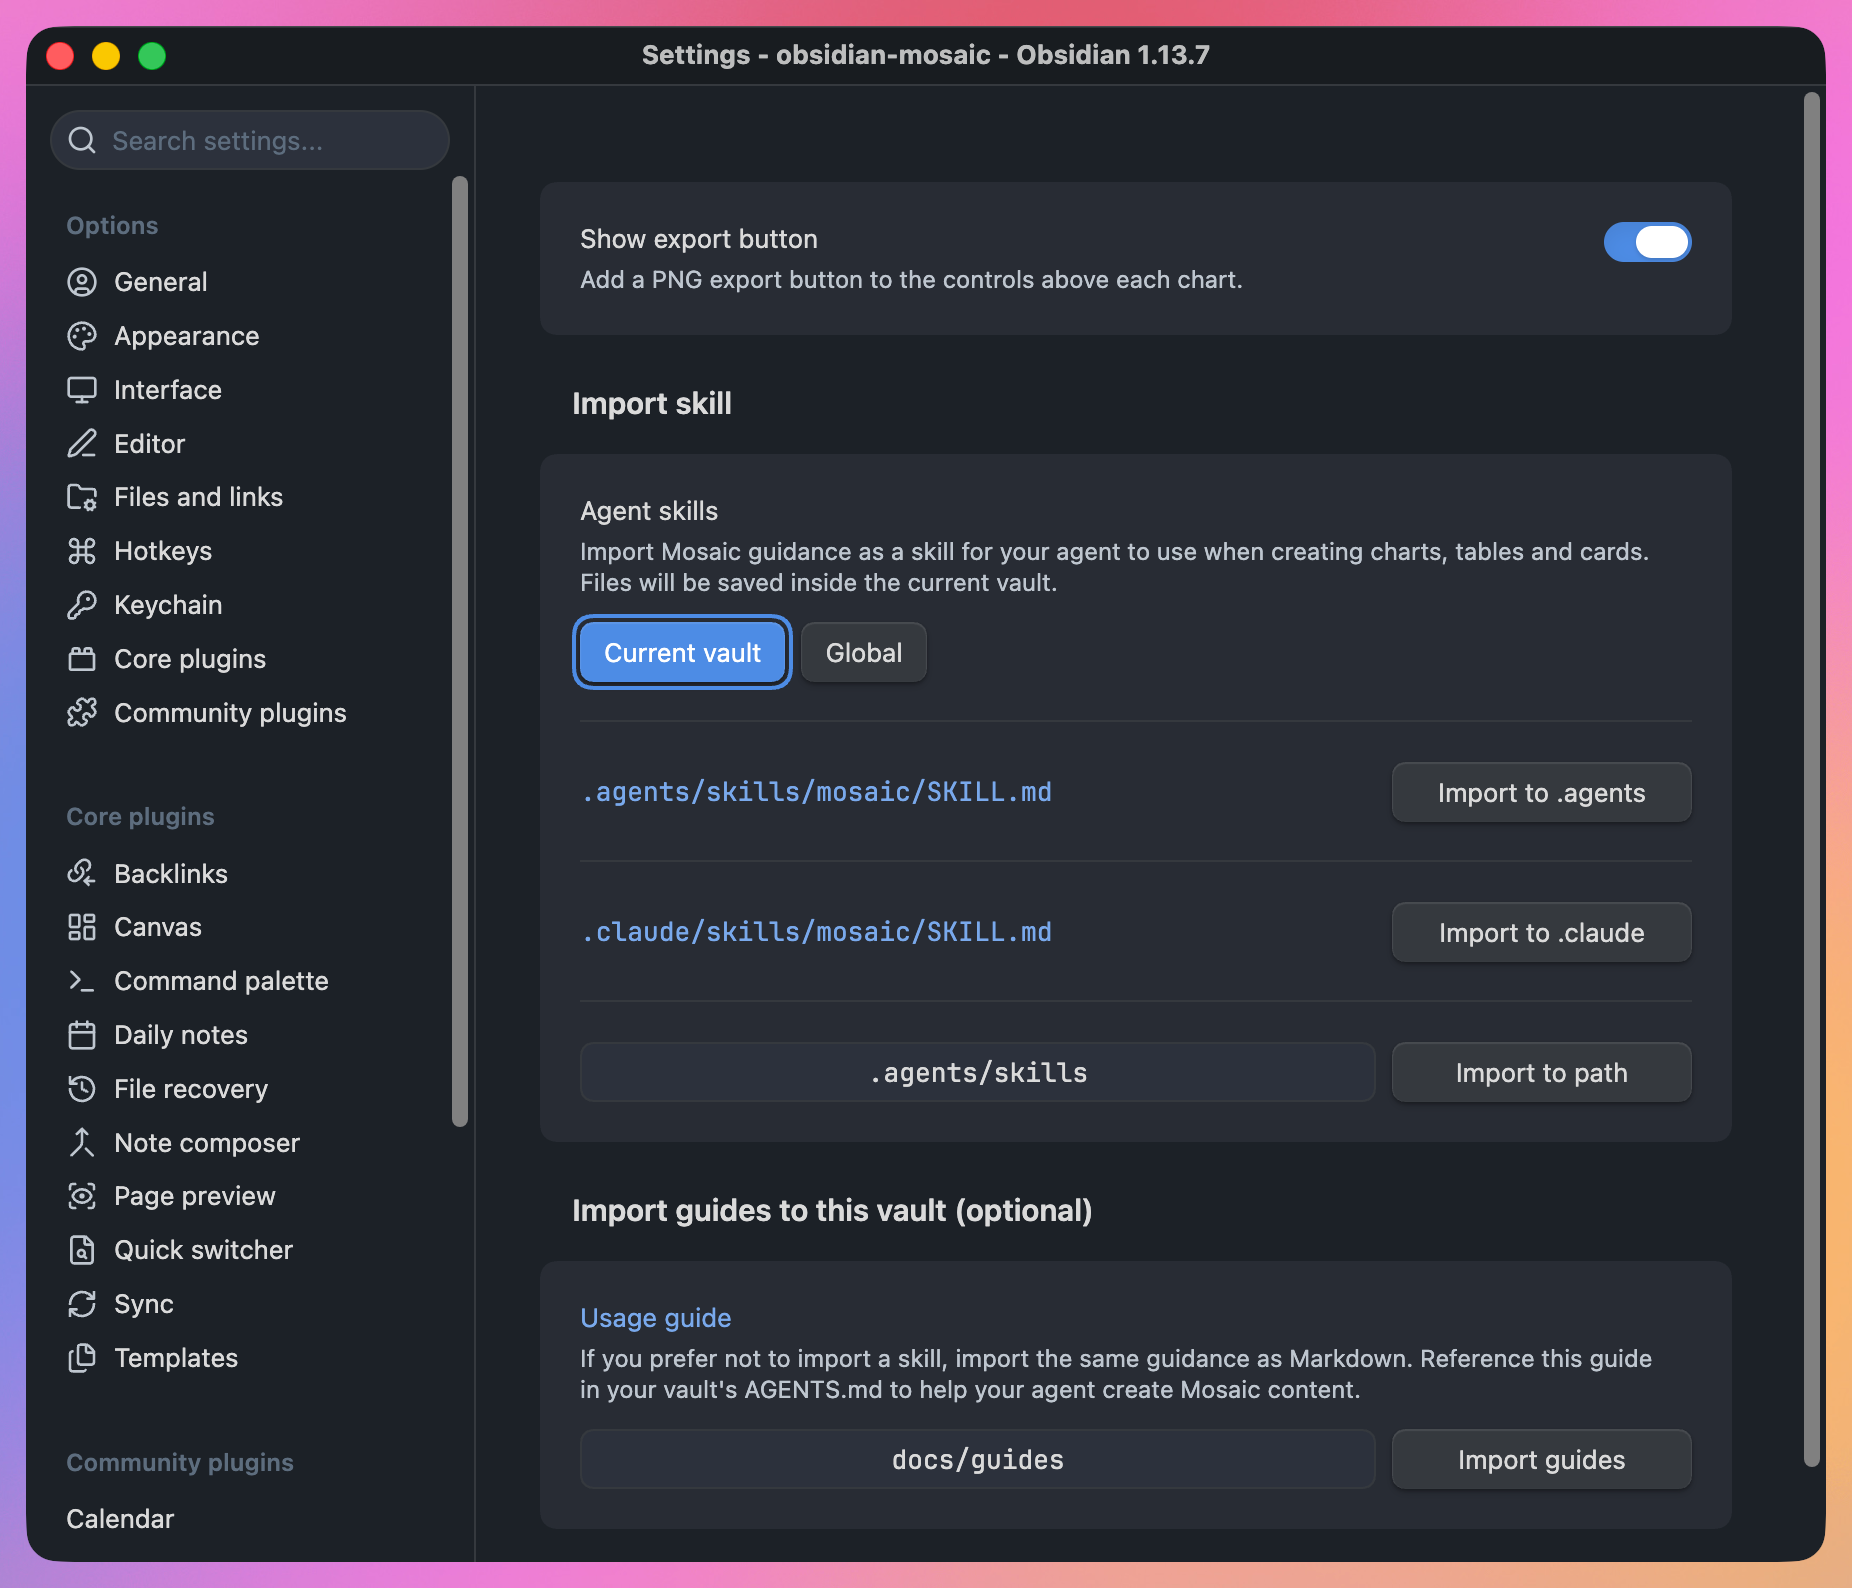
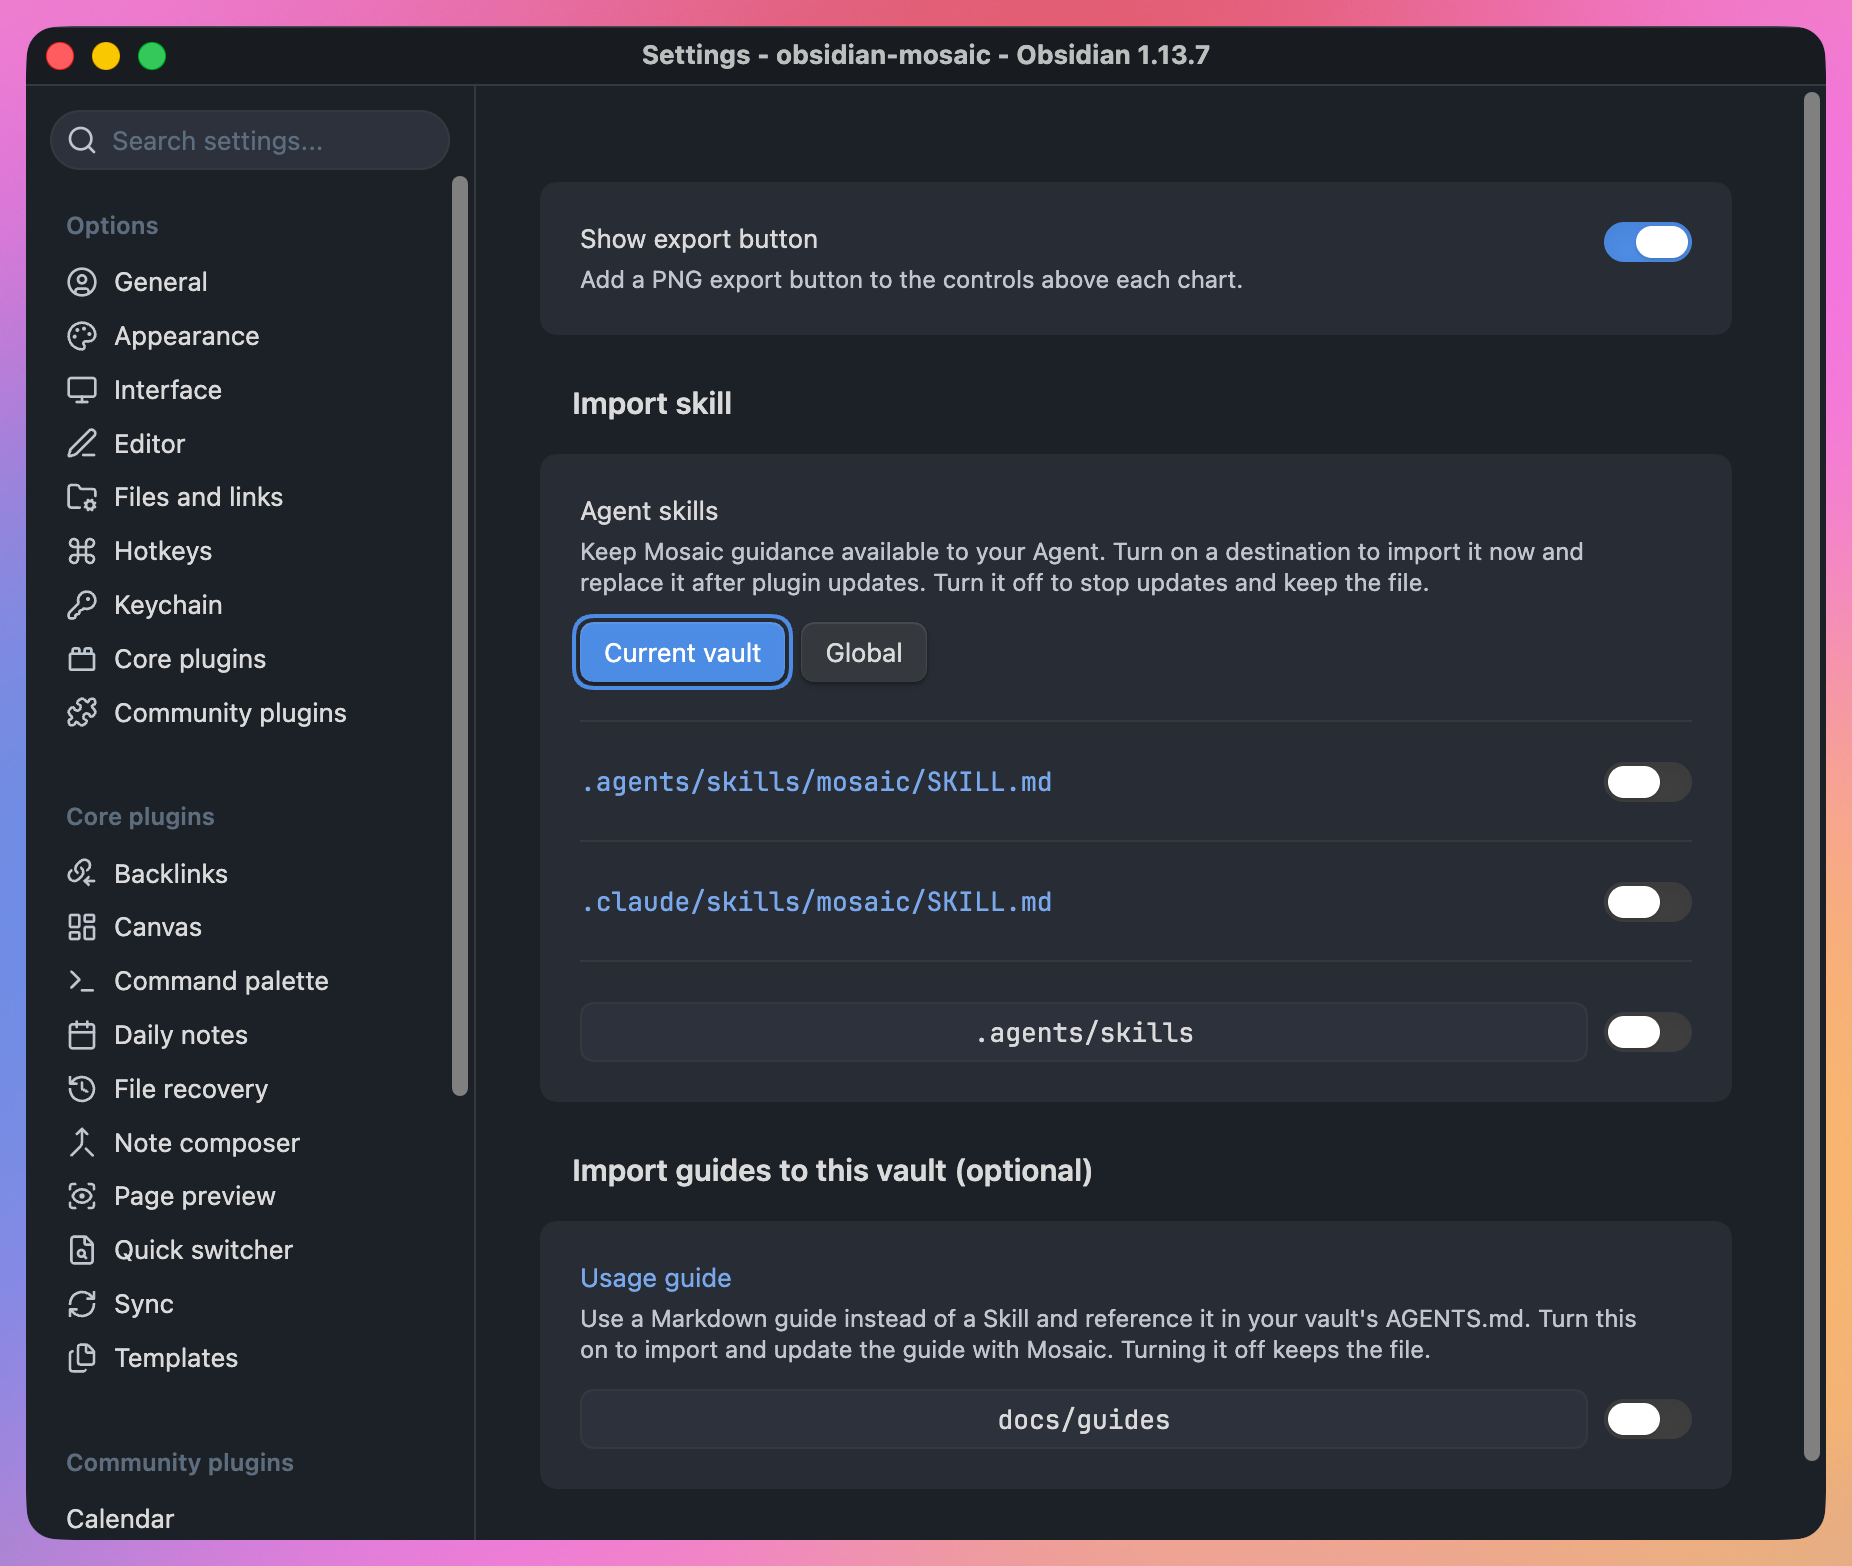
chore: release Mosaic 1.2.5
Replace the settings screenshot with destination switches.
Align bilingual documentation and release version records.
Publish the reviewed guidance subscription behavior.

diff --git a/docs/_archive/2026-09-15-guidance-follow-toggles.md b/docs/_archive/2026-09-15-guidance-follow-toggles.md
@@ -303,3 +303,13 @@ onChooseSuggestion(folder: string): void {
 - Review: the full working-tree diff and status consumers were inspected against the review checklist. Busy-toggle assertions were strengthened, obsolete result branches and unused fixture symbols removed, and documentation links/copy corrected. No unresolved code findings remain.
 - Test-vault handoff: final build installed, destination switches off, disposable Global configuration cleared. No test-vault changes were committed.
 - Delivery: implementation and maintenance documentation are recorded in `f5f6fd47b2710e4b88b3512080ee11b518d66eae`. The user authorized local merge and push to `main`, without a PR or release. This archive records the implementation, not release evidence.
+
+---
+
+## Screenshot and release follow-up
+
+> The user supplied the destination-switch screenshot and authorized release preparation on 2026-09-15.
+
+- The shared README settings asset now shows the real switch layout. Both README translations use it without a previous-layout warning.
+- Release preparation targets `1.2.5`. The screenshot limitation in the earlier execution record is resolved.
+- Physical-platform acceptance limitations remain unchanged. Confirm actual publication and artifact provenance through the release tag and workflow, not this preparation note.

diff --git a/docs/engineering/agent-guidance-imports.md b/docs/engineering/agent-guidance-imports.md
@@ -131,5 +131,5 @@ git diff --check
 - Maintain `src/agent-guide/mosaic.md` as the only authoring body. Installation behavior belongs in these documents, not in duplicate copies of that body.
 - A change only to README or engineering documentation does not change the bundled guidance. A change to `mosaic.md`, its wrapper or installer behavior requires a plugin release to reach installed users.
 - Enabled same-version destinations do not receive a changed body automatically. Verify bundled guidance using the intended release version instead of assuming a reload rewrites it.
-- Keep the README settings image labeled as the previous layout until the supplied replacement shows the destination switches. Do not replace screenshots during text-only documentation maintenance.
+- Keep the shared README settings image aligned with the destination-switch controls. Use the supplied host screenshot rather than a generated mockup.
 - Follow [[docs/engineering/publishing-to-obsidian|publishing-to-obsidian.md]] for release verification. Documentation edits do not authorize publication.

diff --git a/README.md b/README.md
@@ -147,10 +147,8 @@ Mosaic does not include an AI assistant or connect to a model. Use your own Agen
 
 - Turn on a vault-local Skill destination, or enable an ordinary Markdown guide for your Agent to read. All switches default off.
 
-Previous settings layout shown below; the import buttons are now destination switches.
-
 <p align="center">
-  <a href="docs/_assets/readme-settings.png"><img src="docs/_assets/readme-settings.png" alt="Mosaic settings with Current vault selected, skill import destinations and the optional Markdown guide import" width="760" /></a>
+  <a href="docs/_assets/readme-settings.png"><img src="docs/_assets/readme-settings.png" alt="Mosaic settings with Current vault selected and Skill and Markdown guide destination switches turned off" width="760" /></a>
 </p>
 
 1. Open Settings → Mosaic → **Import skill**.

diff --git a/docs/README-zh.md b/docs/README-zh.md
@@ -148,10 +148,8 @@ Mosaic 负责显示内容，本身没有 AI 助手。你可以让自己常用的
 
 - 开启当前仓库中的 Skill 目标，或开启普通 Markdown 指南导入，交给 Agent 阅读。所有开关默认关闭。
 
-下图为旧版设置布局；当前导入按钮已改为各目标的开关。
-
 <p align="center">
-  <a href="_assets/readme-settings.png"><img src="_assets/readme-settings.png" alt="Mosaic 设置，选中当前仓库，显示技能导入目标和可选的 Markdown 指南导入" width="760" /></a>
+  <a href="_assets/readme-settings.png"><img src="_assets/readme-settings.png" alt="Mosaic 设置，选中当前仓库，Skill 和 Markdown 指南的导入开关均已关闭" width="760" /></a>
 </p>
 
 1. 打开「设置 → Mosaic → **Import skill**（导入技能）」。
